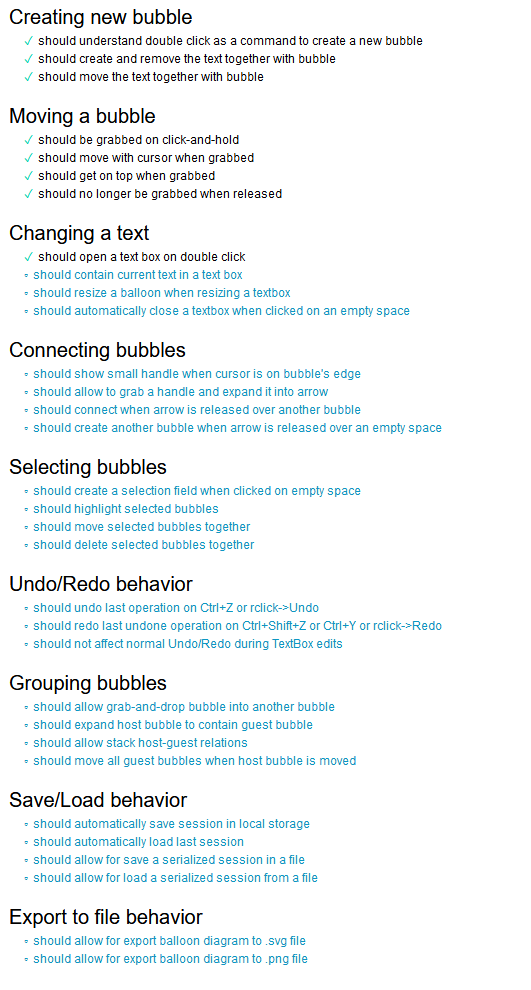
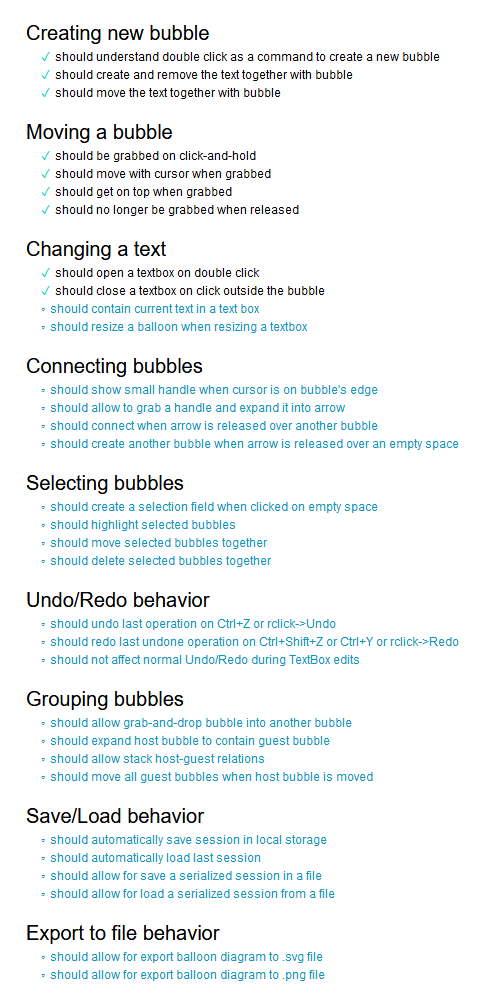
Added 'close textbox' test

Changed region(s): [[0.0, 0.0, 0.9281, 1.0]]

diff --git a/main.js b/main.js
@@ -25,9 +25,9 @@ function createBalloon(x, y) {
     fO.setAttribute('id', `fo${numBalloons}`);
     fO.setAttribute('x', x);
     fO.setAttribute('y', y);
-    fO.setAttribute('width', 2 * w);
+    fO.setAttribute('width', w);
     fO.setAttribute('height', h);
-    fO.innerHTML = '<div>text</div>';
+    fO.innerHTML = 'text';
     div.after(fO);
 
     numBalloons++;
@@ -56,7 +56,7 @@ function Balloon(x, y) {
 
     this.id = this.div.attr('id');
 
-    this.move = function (x, y) {
+    this.move = function(x, y) {
         const w = this.W;
         const h = this.H;
 
@@ -75,16 +75,16 @@ function Balloon(x, y) {
         this.fO.setAttribute('y', y);
     };
 
-    this.isGrabbed = function () {
+    this.isGrabbed = function() {
         return this.grabbed;
     };
 
-    this.grab = function () {
+    this.grab = function() {
         this.grabbed = true;
         this.bringToFront();
     };
 
-    this.bringToFront = function () {
+    this.bringToFront = function() {
         //probably not the best way to accomplish that
         this.div.remove();
         this.fO.remove();
@@ -92,11 +92,11 @@ function Balloon(x, y) {
         svg.appendChild(this.fO);
     };
 
-    this.drop = function () {
+    this.drop = function() {
         this.grabbed = false;
     };
 
-    this.rect = function () {
+    this.rect = function() {
         const div = this.div;
         const w = parseFloat(div.attr('width'));
         const h = parseFloat(div.attr('height'));
@@ -105,17 +105,30 @@ function Balloon(x, y) {
         return [x, y, w, h];
     };
 
-    this.openContent = function () {
-        var x = this.fO.innerHTML;
+    this.openContent = function() {
+        closeCurrentTextarea();
+        const x = this.fO.innerHTML;
         this.fO.innerHTML = '<textarea>Abc</textarea>';
+        currentTextareaBalloon = this;
     };
+}
+
+var currentTextareaBalloon = null;
+
+function closeCurrentTextarea() {
+    if (currentTextareaBalloon === null) return;
+    if (currentTextareaBalloon.fO === null) return;
+    var str = $(currentTextareaBalloon.fO.innerHTML);
+    str = str.text();
+    currentTextareaBalloon.fO.innerHTML = str;
+    currentTextareaBalloon = null;
 }
 
 var Balloons = {
     balloonsList: [],
 
-    findFromElement: function (element) {
-        
+    findFromElement: function(element) {
+
         while (element != null) {
             if (element.parentElement === null) return null;
             if (element.parentElement.tagName === 'svg') {
@@ -125,12 +138,12 @@ var Balloons = {
         }
         if (element == null) return null;
 
-        var id = element.id;
+        const id = element.id;
         var name = id;
         console.log(element);
 
         if (name == null) return null;
-        
+
         if (element.tagName === 'foreignObject') {
             return Balloons.findFromForeignId(element.id);
         }
@@ -145,7 +158,7 @@ var Balloons = {
         }
     },
 
-    findFromId: function (id) {
+    findFromId: function(id) {
         const n = this.balloonsList.length;
         const b = this.balloonsList;
         for (let i = 0; i < n; i++) {
@@ -156,7 +169,7 @@ var Balloons = {
         return null;
     },
 
-    findFromForeignId: function (id) {
+    findFromForeignId: function(id) {
         const n = this.balloonsList.length;
         const b = this.balloonsList;
         for (let i = 0; i < n; i++) {
@@ -167,21 +180,21 @@ var Balloons = {
         return null;
     },
 
-    findFromDiv: function (div) {
+    findFromDiv: function(div) {
         return this.findFromId(div.attr('id'));
     },
 
-    insert: function (balloon) {
+    insert: function(balloon) {
         this.balloonsList.push(balloon);
     },
 
-    addBalloon: function (x, y) {
+    addBalloon: function(x, y) {
         const b = new Balloon(x, y);
         this.insert(b);
         return b;
     },
 
-    getLast: function () {
+    getLast: function() {
         const n = this.balloonsList.length;
         if (n > 0) {
             return this.balloonsList[n - 1];
@@ -190,7 +203,7 @@ var Balloons = {
         }
     },
 
-    removeLast: function () {
+    removeLast: function() {
         const b = this.getLast();
         b.div.remove();
         b.div = null;
@@ -201,6 +214,7 @@ var Balloons = {
 };
 
 var mouseDown = false;
+var editOpen = false;
 var xy = {};
 
 var currElement = null;
@@ -214,7 +228,8 @@ document.body.onmousedown = (evt) => {
 
     if (element == null) return;
     console.log(element.tagName);
-    if (element.tagName.toLowerCase() === "textarea") return;
+    if (element.tagName.toLowerCase() === 'textarea') return;
+    closeCurrentTextarea();
 
     currElement = Balloons.findFromElement(element);
 
@@ -223,7 +238,7 @@ document.body.onmousedown = (evt) => {
     }
 };
 
-$('body').dblclick(function (event) {
+$('body').dblclick(function(event) {
     const x = event.clientX;
     const y = event.clientY;
     const element = document.elementFromPoint(x, y);
@@ -231,9 +246,8 @@ $('body').dblclick(function (event) {
 
     if (tag === 'svg') {
         Balloons.addBalloon(x, y);
-    }
-    else {
-        console.log("double click");
+    } else {
+        console.log('double click');
         const b = Balloons.findFromElement(element);
         console.log(b);
         if (b != null) {

diff --git a/test.js b/test.js
@@ -172,7 +172,7 @@ describe('Moving a bubble',
 
 describe('Changing a text',
     () => {
-        it('should open a text box on double click',
+        it('should open a textbox on double click',
             () => {
                 Balloons.addBalloon(x0, y0);
                 Mouse.doubleclick(x0, y0);
@@ -182,11 +182,22 @@ describe('Changing a text',
                 Balloons.removeLast();
             });
 
+        it('should close a textbox on click outside the bubble',
+            () => {
+                Balloons.addBalloon(x0, y0);
+                Mouse.doubleclick(x0, y0);
+                Mouse.click(x0 + 200, y0);
+                var element = document.elementFromPoint(x0, y0);
+                element.should.not.equal(null);
+                element.tagName.toLowerCase().should.not.equal("textarea");
+                Balloons.removeLast();
+            });
+
         it('should contain current text in a text box');
 
         it('should resize a balloon when resizing a textbox');
 
-        it('should automatically close a textbox when clicked on an empty space');
+        
     });
 
 describe('Connecting bubbles',
